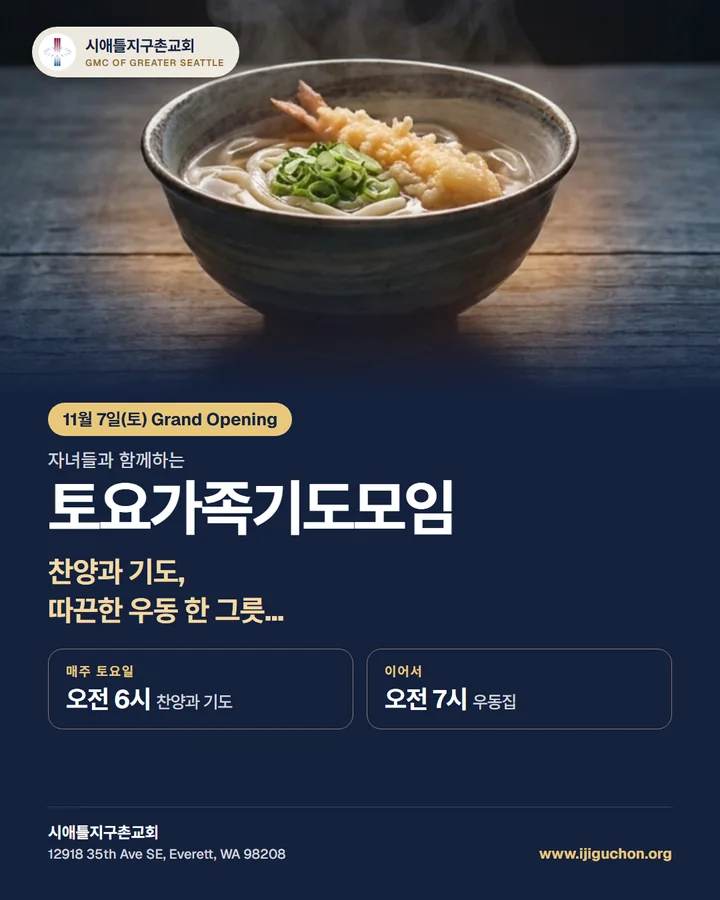
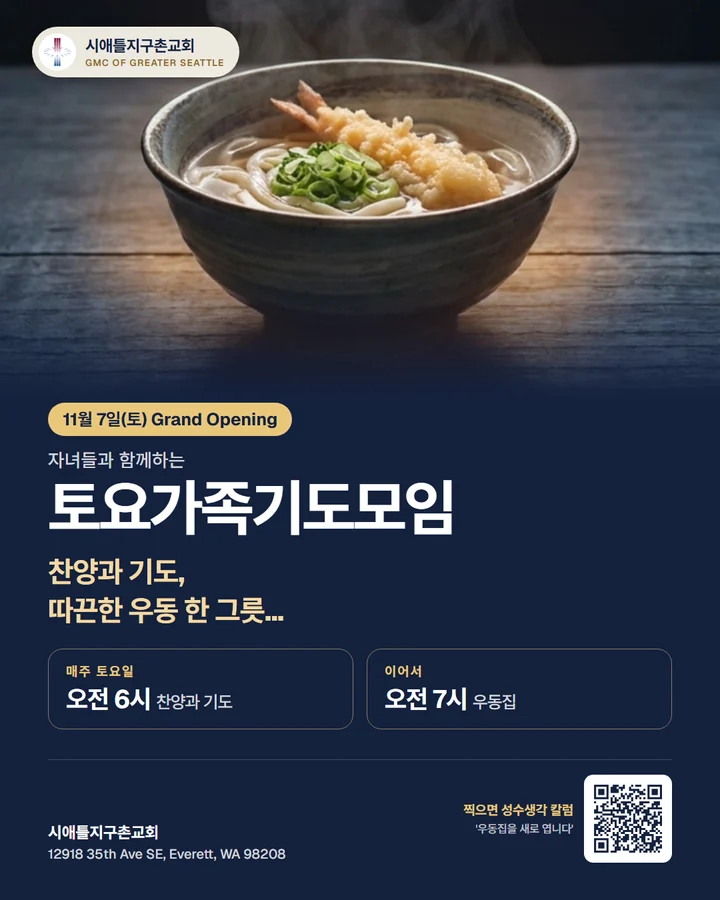
Saturday posters: QR to the udon column

Changed region(s): [[0.6417, 0.84, 0.9472, 0.9644]]

diff --git a/sw.js b/sw.js
@@ -7,7 +7,7 @@
    페이지는 network-first라 내용 수정 때 버전을 올릴 필요 없음.
    캐시 구조를 바꿀 때만 VERSION을 올리세요. (캐시 이름은 'home-' 으로 시작)
    ══════════════════════════════════════════════════════════ */
-const VERSION = 'home-v20261029-013442';
+const VERSION = 'home-v20261029-014414';
 const PAGE_CACHE = VERSION + '-pages';
 const ASSET_CACHE = VERSION + '-assets';
 const PRECACHE = ['/', '/manifest.json', '/favicon.ico', '/images/logo-mark.png', '/images/icon-192-r.png'];
